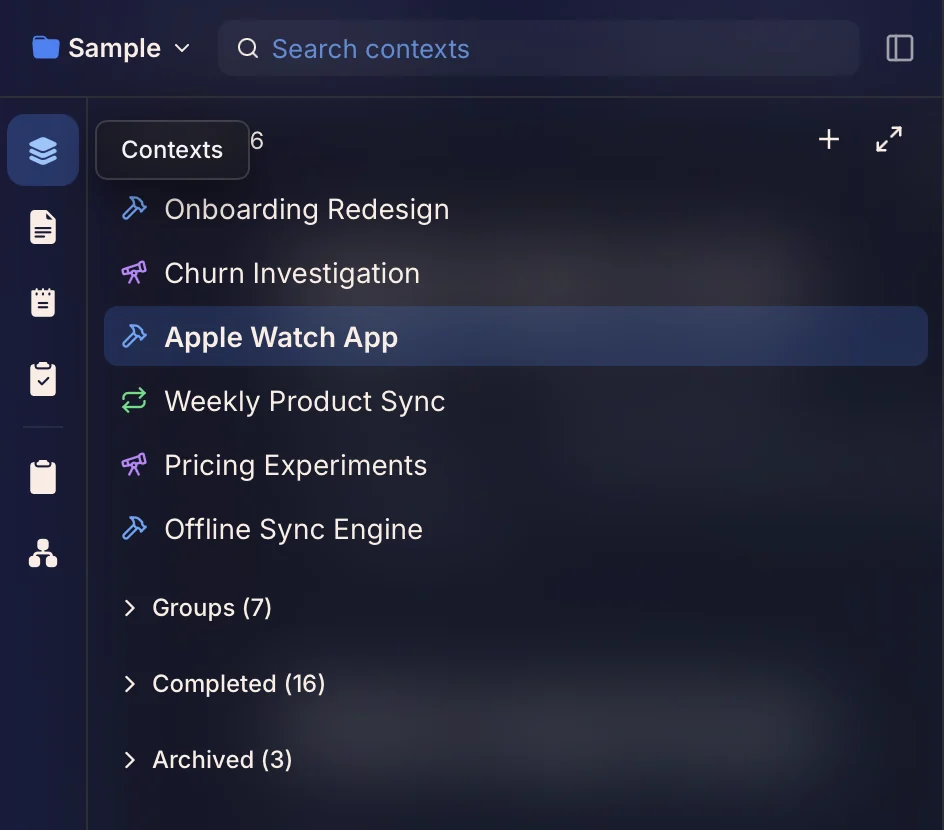
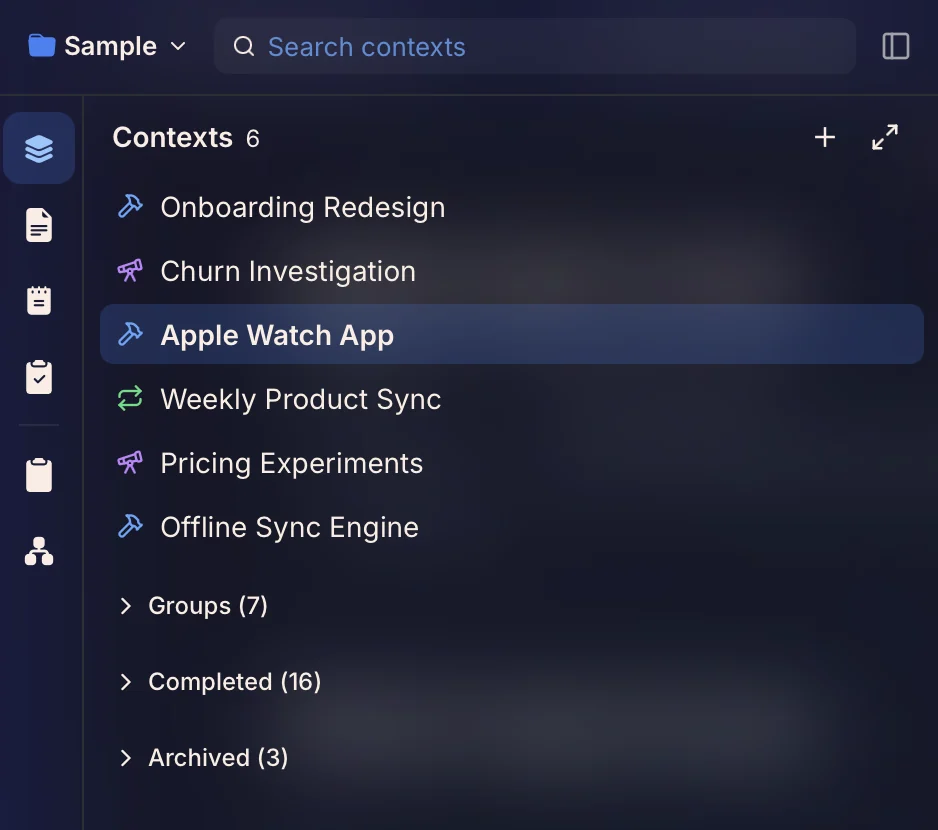
Replace context list screenshot with tooltip-free version

diff --git a/src/components/Features.tsx b/src/components/Features.tsx
@@ -50,7 +50,7 @@ function Contexts() {
         <Shot
           src="/shots/context-list.webp"
           alt="The context list: Onboarding Redesign, Churn Investigation, Apple Watch App, and more"
-          width={944}
+          width={938}
           height={830}
           display={{ base: 'none', md: 'block' }}
           position="absolute"
